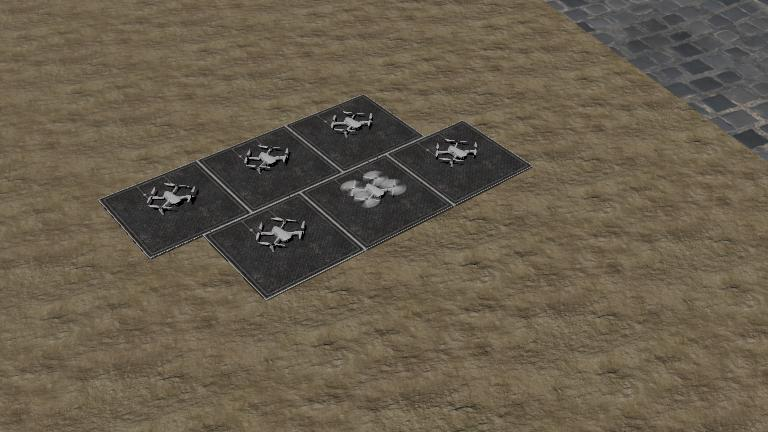
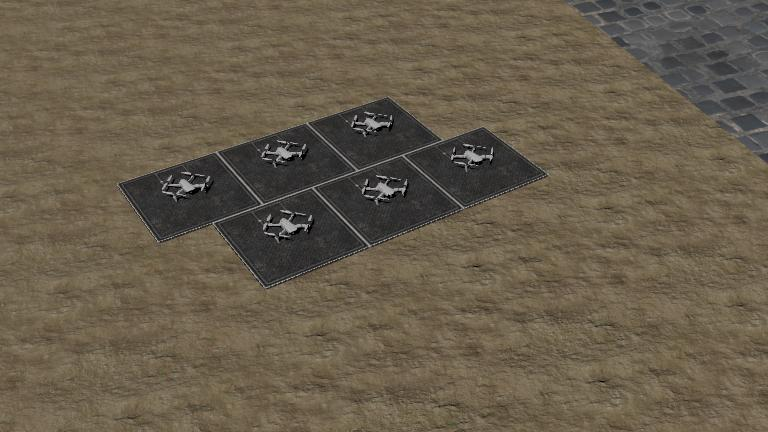
fine tune target positions

diff --git a/src/main/java/controllers/SupervisorController/SupervisorController.java b/src/main/java/controllers/SupervisorController/SupervisorController.java
@@ -2,6 +2,8 @@ import com.cyberbotics.webots.controller.Supervisor;
 import com.cyberbotics.webots.controller.Node;
 import com.cyberbotics.webots.controller.Field;
 import com.cyberbotics.webots.controller.Keyboard;
+import java.util.Arrays;
+import java.util.List;
 
 public class SupervisorController extends Supervisor {
   private final int TIME_STEP = (int) Math.round(getBasicTimeStep());
@@ -51,10 +53,14 @@ public class SupervisorController extends Supervisor {
             System.out.println("Box Formation");
             formBoxShape();
             break;
+          case (Keyboard.SHIFT + 'I'):
+            System.out.println("Line Formation");
+            formLineShape();
+            break;
         }
         key = keyboard.getKey();
       }
-      if (keyboard.getKeyboard() == 0 && !Arrays.deepEquals(currentFormation, baseFormation)) {
+      if (keyboard.getKey() == 0 && !Arrays.deepEquals(currentFormation, baseFormation)) {
         currentFormation = baseFormation;
         moveDronesToTarget(baseFormation);
       }
@@ -79,19 +85,17 @@ public class SupervisorController extends Supervisor {
       }
 
       transFields[i].setSFVec3f(newPosition);
-
-      System.out.println("Drone" + (i + 1) + " moved to: (" + newPosition[0] + ", " + newPosition[1] + ", " + newPosition[2] + ")");
     }
   }
 
   private void formTShape() {
     double[][] targetPositions = {
-        { 0.0, 0.0, 1.0 },
-        { 0.0, 1.0, 1.2 },
-        { 0.0, -1.0, 1.4 },
-        { 0.0, -2.0, 1.6 },
-        { -2.0, 1.0, 1.8 },
-        { 2.0, 1.0, 2.0 }
+        { 1.0, 1.5, 1.0 },
+        { 1.0, 0.5, 1.2 },
+        { 1.0, -0.5, 1.4 },
+        { 0.0, 0.5, 1.5 },
+        { -1.0, 0.5, 1.6 },
+        { -2.0, 0.5, 1.8 }
     };
     currentFormation = targetPositions;
     moveDronesToTarget(targetPositions);
@@ -99,12 +103,12 @@ public class SupervisorController extends Supervisor {
 
   private void formLShape() {
     double[][] targetPositions = {
-        { 0.0, 0.0, 1.0 },
-        { 1.0, 0.0, 1.2 },
-        { 2.0, 0.0, 1.4 },
-        { 3.0, 0.0, 1.5 },
-        { 3.0, 1.0, 1.6 },
-        { 3.0, 2.0, 1.8 }
+        { 1.0, 1.5, 1.0 },
+        { 1.0, 0.5, 1.2 },
+        { 1.0, -0.5, 1.4 },
+        { 0.0, 1.5, 1.5 },
+        { -1.0, 1.5, 1.6 },
+        { -2.0, 1.5, 1.8 }
     };
     currentFormation = targetPositions;
     moveDronesToTarget(targetPositions);
@@ -118,6 +122,19 @@ public class SupervisorController extends Supervisor {
         { 0.0, 1.0, 1.0 },
         { 0.0, 0.0, 2.0 },
         { 1.0, 0.0, 2.0 }
+    };
+    currentFormation = targetPositions;
+    moveDronesToTarget(targetPositions);
+  }
+  
+  private void formLineShape() {
+    double[][] targetPositions = {
+        { 1.0, 1.0, 1.0 },
+        { 1.0, 2.0, 1.0 },
+        { 1.0, 3.0, 1.0 },
+        { 1.0, 4.0, 1.0 },
+        { 1.0, 5.0, 1.0 },
+        { 1.0, 6.0, 1.0 }
     };
     currentFormation = targetPositions;
     moveDronesToTarget(targetPositions);
